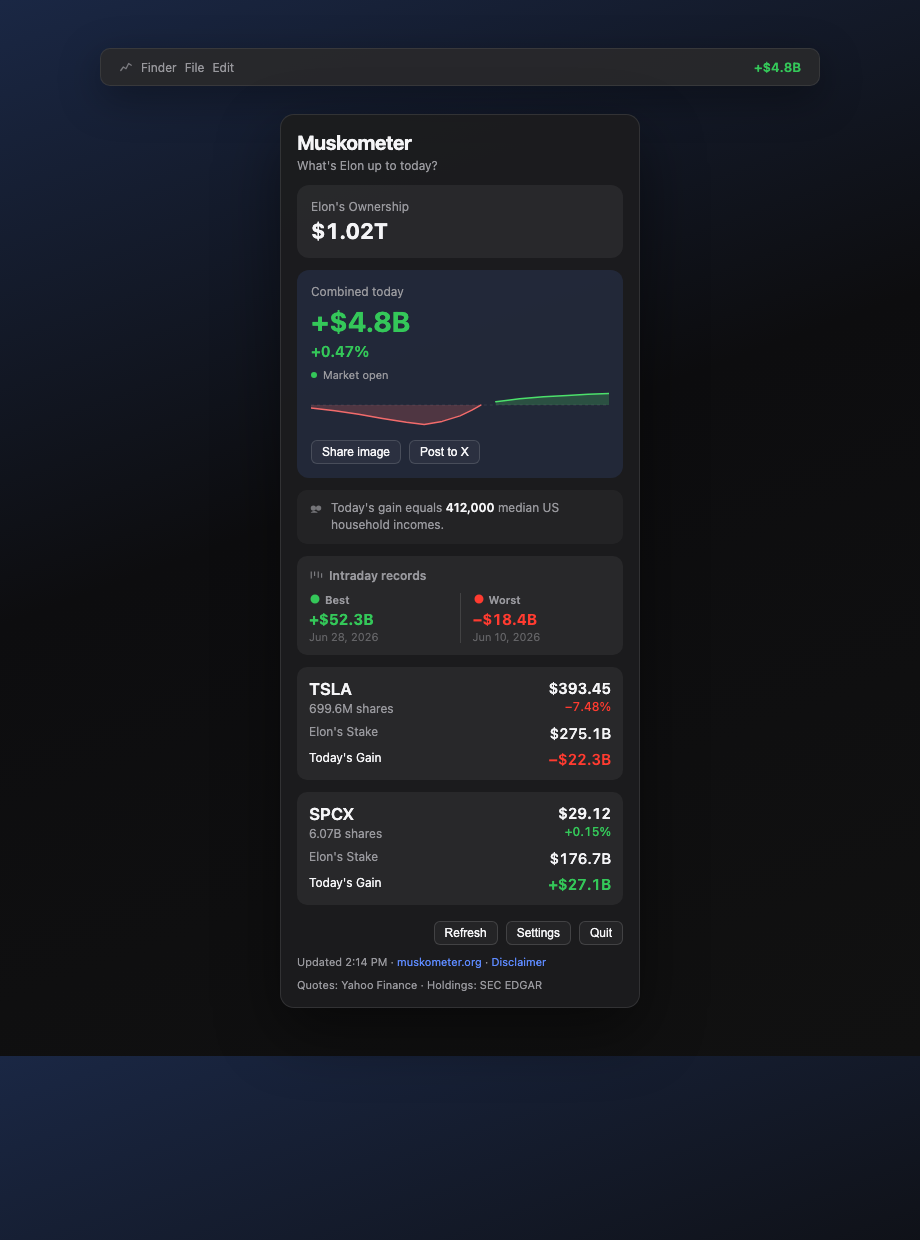
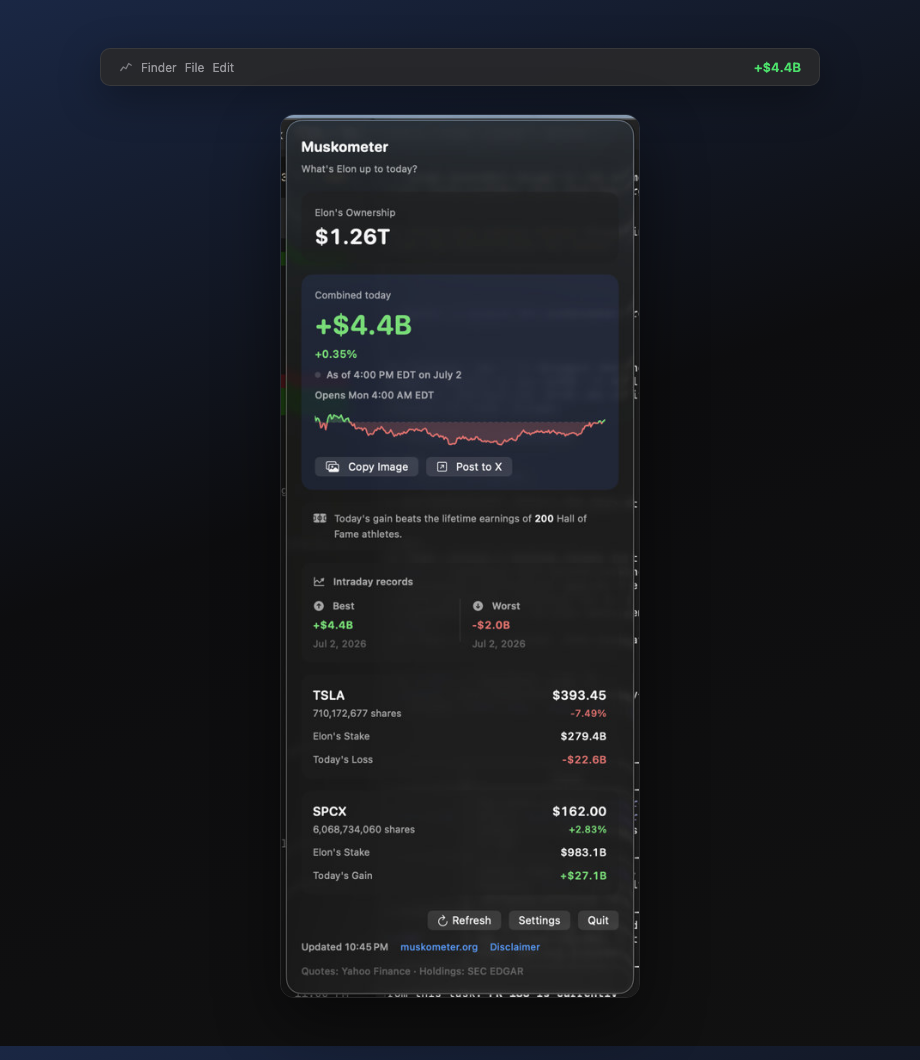
Use real app capture for landing page screenshot
Replace the HTML mock with an actual popover screenshot so marketing
assets match the live UI sparkline, typography, and layout.

diff --git a/docs/screenshots/render-popover.html b/docs/screenshots/render-popover.html
@@ -44,236 +44,15 @@
       margin-left: auto;
       font-size: 13px;
       font-weight: 600;
-      color: #34c759;
+      color: #4CE06B;
       font-variant-numeric: tabular-nums;
     }
-    .popover {
+    .popover-shot {
       width: 360px;
-      background: rgba(28, 28, 30, 0.98);
-      border: 1px solid rgba(255,255,255,0.1);
       border-radius: 14px;
-      padding: 16px;
+      border: 1px solid rgba(255,255,255,0.1);
       box-shadow: 0 24px 64px rgba(0,0,0,0.45);
-    }
-    .title {
-      font-size: 20px;
-      font-weight: 700;
-      letter-spacing: -0.02em;
-    }
-    .subtitle {
-      margin-top: 4px;
-      font-size: 12px;
-      color: #98989d;
-    }
-    .card {
-      margin-top: 12px;
-      padding: 14px;
-      border-radius: 12px;
-      background: rgba(255,255,255,0.06);
-    }
-    .card.accent {
-      background: rgba(94, 139, 255, 0.12);
-    }
-    .label {
-      font-size: 12px;
-      color: #98989d;
-    }
-    .ownership-value {
-      margin-top: 4px;
-      font-size: 22px;
-      font-weight: 700;
-      font-variant-numeric: tabular-nums;
-    }
-    .gain {
-      margin-top: 6px;
-      font-size: 28px;
-      font-weight: 700;
-      color: #34c759;
-      font-variant-numeric: tabular-nums;
-    }
-    .percent {
-      margin-top: 4px;
-      font-size: 15px;
-      font-weight: 600;
-      color: #34c759;
-      font-variant-numeric: tabular-nums;
-    }
-    .market {
-      display: flex;
-      align-items: center;
-      gap: 6px;
-      margin-top: 8px;
-      font-size: 11px;
-      color: #98989d;
-    }
-    .dot {
-      width: 6px;
-      height: 6px;
-      border-radius: 50%;
-      background: #34c759;
-    }
-    .sparkline {
-      margin-top: 10px;
-      height: 36px;
-      width: 100%;
-    }
-    .share-row {
-      display: flex;
-      gap: 8px;
-      margin-top: 10px;
-    }
-    .btn {
-      border: 1px solid rgba(255,255,255,0.14);
-      background: rgba(255,255,255,0.04);
-      color: #f5f5f7;
-      border-radius: 6px;
-      padding: 4px 10px;
-      font-size: 12px;
-      white-space: nowrap;
-    }
-    .caption {
-      margin-top: 12px;
-      display: flex;
-      gap: 8px;
-      align-items: flex-start;
-      padding: 10px 12px;
-      border-radius: 10px;
-      background: rgba(255,255,255,0.04);
-      font-size: 12px;
-      line-height: 1.4;
-      color: #98989d;
-    }
-    .caption-icon {
-      width: 14px;
-      flex-shrink: 0;
-      opacity: 0.7;
-      margin-top: 1px;
-    }
-    .caption strong {
-      color: #f5f5f7;
-      font-weight: 600;
-    }
-    .records {
-      margin-top: 12px;
-      padding: 12px;
-      border-radius: 10px;
-      background: rgba(255,255,255,0.06);
-    }
-    .records-title {
-      display: flex;
-      align-items: center;
-      gap: 6px;
-      font-size: 12px;
-      font-weight: 600;
-      color: #98989d;
-      margin-bottom: 10px;
-    }
-    .records-grid {
-      display: grid;
-      grid-template-columns: 1fr auto 1fr;
-      gap: 12px;
-      align-items: start;
-    }
-    .records-divider {
-      width: 1px;
-      background: rgba(255,255,255,0.12);
-      align-self: stretch;
-      min-height: 44px;
-    }
-    .record-label {
-      display: flex;
-      align-items: center;
-      gap: 4px;
-      font-size: 11px;
-      font-weight: 600;
-      color: #98989d;
-    }
-    .record-value {
-      margin-top: 4px;
-      font-size: 15px;
-      font-weight: 700;
-      font-variant-numeric: tabular-nums;
-    }
-    .record-value.up { color: #34c759; }
-    .record-value.down { color: #ff3b30; }
-    .record-date {
-      margin-top: 2px;
-      font-size: 11px;
-      color: #636366;
-    }
-    .stock {
-      margin-top: 12px;
-      padding: 12px;
-      border-radius: 10px;
-      background: rgba(255,255,255,0.06);
-    }
-    .stock-top {
-      display: flex;
-      justify-content: space-between;
-      align-items: flex-start;
-    }
-    .symbol {
-      font-size: 17px;
-      font-weight: 600;
-    }
-    .shares {
-      margin-top: 2px;
-      font-size: 12px;
-      color: #98989d;
-    }
-    .price {
-      font-size: 15px;
-      font-weight: 600;
-      text-align: right;
-      font-variant-numeric: tabular-nums;
-    }
-    .price-change {
-      margin-top: 2px;
-      font-size: 12px;
-      font-weight: 500;
-      text-align: right;
-      color: #34c759;
-      font-variant-numeric: tabular-nums;
-    }
-    .price-change.down { color: #ff3b30; }
-    .metric {
-      display: flex;
-      justify-content: space-between;
-      margin-top: 8px;
-      font-size: 12px;
-    }
-    .metric .value {
-      font-size: 15px;
-      font-weight: 500;
-      font-variant-numeric: tabular-nums;
-    }
-    .metric .muted { color: #98989d; }
-    .gain-row {
-      display: flex;
-      justify-content: space-between;
-      margin-top: 8px;
-      font-size: 12px;
-    }
-    .gain-row .value {
-      font-size: 15px;
-      font-weight: 600;
-      font-variant-numeric: tabular-nums;
-    }
-    .gain-row .value.up { color: #34c759; }
-    .gain-row .value.down { color: #ff3b30; }
-    .footer-btns {
-      display: flex;
-      justify-content: flex-end;
-      gap: 8px;
-      margin-top: 16px;
-    }
-    .footer-meta {
-      margin-top: 10px;
-      font-size: 11px;
-      color: #98989d;
-    }
-    .footer-links {
-      color: #5e8bff;
+      display: block;
     }
   </style>
 </head>
@@ -288,115 +67,16 @@
         <span>File</span>
         <span>Edit</span>
       </div>
-      <div class="menubar-gain">+$4.8B</div>
+      <div class="menubar-gain">+$4.4B</div>
     </div>
 
-    <div class="popover">
-      <div class="title">Muskometer</div>
-      <div class="subtitle">What's Elon up to today?</div>
-
-      <div class="card">
-        <div class="label">Elon's Ownership</div>
-        <div class="ownership-value">$1.02T</div>
-      </div>
-
-      <div class="card accent">
-        <div class="label">Combined today</div>
-        <div class="gain">+$4.8B</div>
-        <div class="percent">+0.47%</div>
-        <div class="market"><span class="dot"></span> Market open</div>
-
-        <svg class="sparkline" viewBox="0 0 300 36" preserveAspectRatio="none" aria-hidden="true">
-          <line x1="0" y1="14.03" x2="300" y2="14.03" stroke="rgba(152,152,157,0.35)" stroke-width="0.5" stroke-dasharray="3 3"/>
-          <path d="M 0.00 16.92 L 24.00 19.80 L 48.00 23.17 L 72.00 27.50 L 96.00 31.35 L 114.00 33.52 L 132.00 30.39 L 150.00 24.86 L 162.00 19.08 L 171.00 14.03 L 171.00 14.03 L 0.00 14.03 Z" fill="rgba(242, 107, 107, 0.22)"/>
-          <polyline fill="none" stroke="#F26B6B" stroke-width="1.5" stroke-linecap="round" stroke-linejoin="round" points="0.00,16.92 24.00,19.80 48.00,23.17 72.00,27.50 96.00,31.35 114.00,33.52 132.00,30.39 150.00,24.86 162.00,19.08 171.00,14.03"/>
-          <path d="M 186.00 10.66 L 210.00 7.78 L 234.00 5.85 L 258.00 4.41 L 279.00 3.20 L 300.00 2.48 L 300.00 14.03 L 186.00 14.03 Z" fill="rgba(76, 224, 107, 0.22)"/>
-          <polyline fill="none" stroke="#4CE06B" stroke-width="1.5" stroke-linecap="round" stroke-linejoin="round" points="186.00,10.66 210.00,7.78 234.00,5.85 258.00,4.41 279.00,3.20 300.00,2.48"/>
-        </svg>
-
-        <div class="share-row">
-          <button class="btn" type="button">Share image</button>
-          <button class="btn" type="button">Post to X</button>
-        </div>
-      </div>
-
-      <div class="caption">
-        <svg class="caption-icon" viewBox="0 0 16 16" fill="currentColor" aria-hidden="true">
-          <path d="M5 11a3 3 0 1 0 0-6 3 3 0 0 0 0 6zm6 0a3 3 0 1 0 0-6 3 3 0 0 0 0 6zM2 13.5c.8-1.2 2.1-2 3.5-2h1c1.4 0 2.7.8 3.5 2"/>
-        </svg>
-        <span>Today's gain equals <strong>412,000</strong> median US household incomes.</span>
-      </div>
-
-      <div class="records">
-        <div class="records-title">
-          <svg width="14" height="14" viewBox="0 0 16 16" fill="currentColor" aria-hidden="true">
-            <path d="M2 12V4h1v8H2zm4-3V4h1v5H6zm4 2V4h1v7h-1zm4-5v5h1V6h-1z"/>
-          </svg>
-          Intraday records
-        </div>
-        <div class="records-grid">
-          <div>
-            <div class="record-label">
-              <svg width="12" height="12" viewBox="0 0 16 16" fill="#34c759" aria-hidden="true">
-                <path d="M8 2a6 6 0 1 0 0 12A6 6 0 0 0 8 2zm2.8 4.2-3.5 3.5-1.3-1.3-.7.7 2 2 4.2-4.2-.7-.7z"/>
-              </svg>
-              Best
-            </div>
-            <div class="record-value up">+$52.3B</div>
-            <div class="record-date">Jun 28, 2026</div>
-          </div>
-          <div class="records-divider"></div>
-          <div>
-            <div class="record-label">
-              <svg width="12" height="12" viewBox="0 0 16 16" fill="#ff3b30" aria-hidden="true">
-                <path d="M8 2a6 6 0 1 0 0 12A6 6 0 0 0 8 2zm1.2 3.8H6.8v4.4h2.4V5.8z"/>
-              </svg>
-              Worst
-            </div>
-            <div class="record-value down">−$18.4B</div>
-            <div class="record-date">Jun 10, 2026</div>
-          </div>
-        </div>
-      </div>
-
-      <div class="stock">
-        <div class="stock-top">
-          <div>
-            <div class="symbol">TSLA</div>
-            <div class="shares">699.6M shares</div>
-          </div>
-          <div>
-            <div class="price">$393.45</div>
-            <div class="price-change down">−7.48%</div>
-          </div>
-        </div>
-        <div class="metric"><span class="muted">Elon's Stake</span><span class="value">$275.1B</span></div>
-        <div class="gain-row"><span class="muted">Today's Gain</span><span class="value down">−$22.3B</span></div>
-      </div>
-
-      <div class="stock">
-        <div class="stock-top">
-          <div>
-            <div class="symbol">SPCX</div>
-            <div class="shares">6.07B shares</div>
-          </div>
-          <div>
-            <div class="price">$29.12</div>
-            <div class="price-change up">+0.15%</div>
-          </div>
-        </div>
-        <div class="metric"><span class="muted">Elon's Stake</span><span class="value">$176.7B</span></div>
-        <div class="gain-row"><span class="muted">Today's Gain</span><span class="value up">+$27.1B</span></div>
-      </div>
-
-      <div class="footer-btns">
-        <button class="btn" type="button">Refresh</button>
-        <button class="btn" type="button">Settings</button>
-        <button class="btn" type="button">Quit</button>
-      </div>
-      <div class="footer-meta">Updated 2:14 PM · <span class="footer-links">muskometer.org</span> · <span class="footer-links">Disclaimer</span></div>
-      <div class="footer-meta">Quotes: Yahoo Finance · Holdings: SEC EDGAR</div>
-    </div>
+    <img
+      class="popover-shot"
+      src="app-capture.png"
+      width="360"
+      height="884"
+      alt="Muskometer popover"
+    >
   </div>
 </body>
 </html>

diff --git a/docs/index.html b/docs/index.html
@@ -34,8 +34,8 @@
         class="screenshot"
         src="screenshots/app-preview.png"
         width="920"
-        height="1240"
-        alt="Muskometer popover with intraday sparkline, comparison caption, records, and TSLA and SPCX holdings"
+        height="1060"
+        alt="Muskometer popover showing ownership, intraday sparkline, records, and TSLA and SPCX holdings"
         loading="eager"
       >
     </section>

diff --git a/docs/README.md b/docs/README.md
@@ -94,7 +94,7 @@ DNS propagation can take from a few minutes up to 48 hours.
 
 ## Regenerate screenshots
 
-Edit `screenshots/render-popover.html` (sparkline SVG from `python3 screenshots/generate-sparkline.py`), then:
+Replace `screenshots/app-capture.png` with a fresh popover screenshot from the app, then:
 
 ```bash
 CHROME="/Applications/Google Chrome.app/Contents/MacOS/Google Chrome"